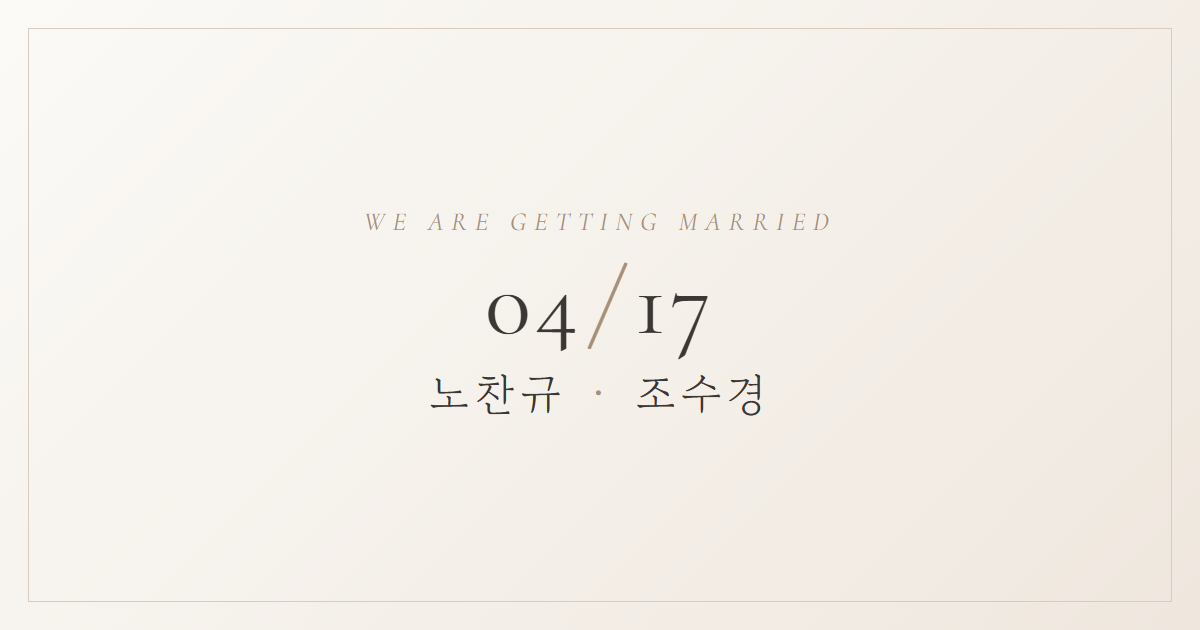
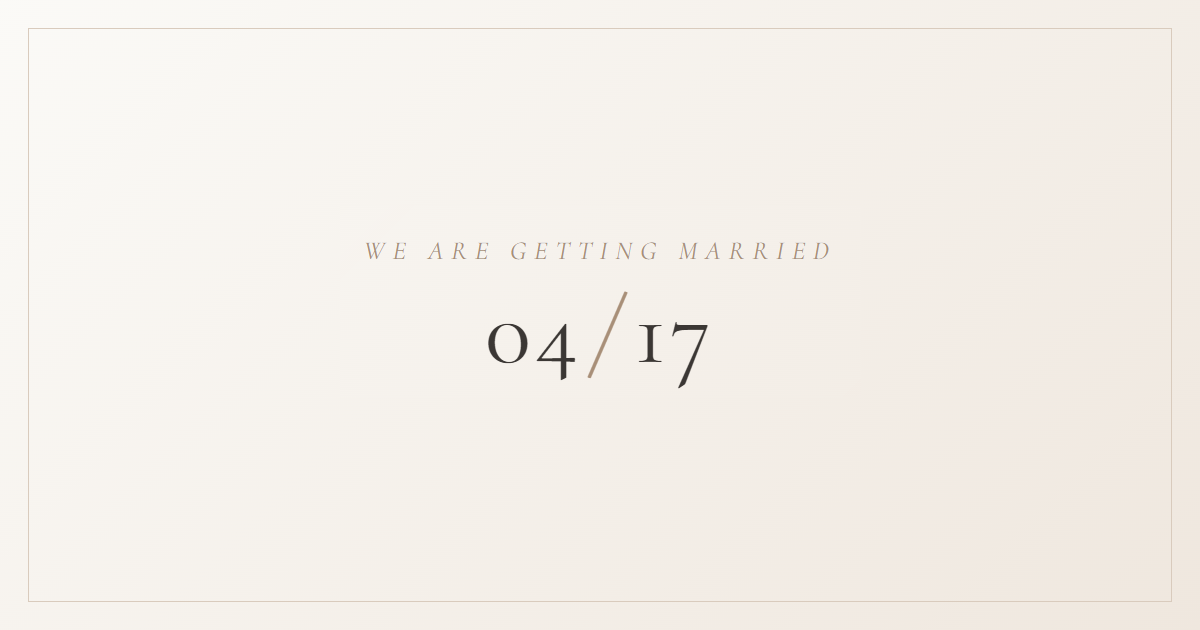
실명·계좌번호를 저장소에서 빼고 빌드할 때 넣도록 변경
wedding.js 에는 샘플 이름·계좌(김민준·이서연)만 두고, 실제 값은 git에 올리지 않는
wedding.private.json(내 PC)이나 Vercel 환경변수 WEDDING_PRIVATE 에서 읽어
빌드할 때 덮어쓴다. JSON 형식이 틀리면 샘플 이름이 배포되지 않도록 빌드를 멈춘다.

공유 썸네일(og.png)에서도 이름 줄을 지우고 남은 문구를 가운데로 옮겼다.
이름은 카드 제목(share.title)에 나온다. 카카오톡 캐시 때문에 ?v=3 으로 올림.

diff --git a/src/config/wedding.js b/src/config/wedding.js
@@ -1,6 +1,8 @@
 // 청첩장의 모든 문구·정보는 이 파일에서 수정합니다.
 // 이미지·음악 경로는 public/ 폴더 기준 상대 경로입니다.
 // 커버·갤러리 사진은 photos/ 폴더에 원본을 넣으면 자동으로 줄여서 들어갑니다 (README 참고).
+// 이름·계좌는 샘플입니다. 실제 값은 git에 올리지 않는 wedding.private.json(또는 Vercel 환경변수
+// WEDDING_PRIVATE)에 적으면 빌드할 때 이 파일 위에 덮어씁니다 (README "실명·계좌번호 따로 두기" 참고).
 import { photos } from './photos.generated.js'
 
 export const wedding = {
@@ -11,20 +13,20 @@ export const wedding = {
   hostOrder: 'groom-first',
   // 돌아가신 부모님은 fatherDeceased·motherDeceased 를 true 로 두면 이름 앞에 故 가 붙습니다.
   groom: {
-    name: '노찬규',
-    shortName: '찬규',
-    father: '노충섭',
+    name: '김민준',
+    shortName: '민준',
+    father: '김영수',
     fatherDeceased: false,
-    mother: '박은주',
+    mother: '정미경',
     motherDeceased: false,
     relation: '아들',
   },
   bride: {
-    name: '조수경',
-    shortName: '수경',
-    father: '아빠',
+    name: '이서연',
+    shortName: '서연',
+    father: '이정호',
     fatherDeceased: false,
-    mother: '엄마',
+    mother: '박지은',
     motherDeceased: false,
     relation: '딸',
   },
@@ -84,13 +86,13 @@ export const wedding = {
 
   accounts: {
     groom: [
-      { role: '신랑', name: '노찬규', bank: '부산은행', number: '175-12-000025-9' },
-      { role: '아버지', name: '노충섭', bank: '신한은행', number: '000-000-000000' },
-      { role: '어머니', name: '박은주', bank: '우리은행', number: '0000-000-000000' },
+      { role: '신랑', name: '김민준', bank: '국민은행', number: '000-00-000000-0' },
+      { role: '아버지', name: '김영수', bank: '신한은행', number: '000-000-000000' },
+      { role: '어머니', name: '정미경', bank: '우리은행', number: '0000-000-000000' },
     ],
     bride: [
       // kakaopay: 카카오페이 송금 링크가 있으면 버튼이 함께 표시됩니다.
-      { role: '신부', name: '조수경', bank: '하나은행', number: '000-000000-00000', kakaopay: '' },
+      { role: '신부', name: '이서연', bank: '하나은행', number: '000-000000-00000', kakaopay: '' },
       { role: '아버지', name: '이정호', bank: '농협', number: '000-0000-0000-00' },
       { role: '어머니', name: '박지은', bank: '기업은행', number: '000-000000-00-000' },
     ],
@@ -101,11 +103,11 @@ export const wedding = {
   bgm: '',
 
   share: {
-    title: '노찬규 ♥ 조수경 결혼합니다',
+    title: '김민준 ♥ 이서연 결혼합니다',
     description: '2027년 4월 17일 토요일 낮 12시 30분, 더세인트 6층 그랜드볼룸',
     // 공유 카드 이미지 (JPG/PNG, 5MB 이하, 가로 800px 이상 권장). SVG는 카카오톡에서 표시되지 않습니다.
     // 카카오톡은 같은 주소의 이미지를 한동안 저장해두므로, 이미지를 바꾸면 ?v= 뒤 숫자를 올려주세요.
-    image: 'images/og.png?v=2',
+    image: 'images/og.png?v=3',
     // 배포한 청첩장 주소. 링크를 카톡방에 직접 붙여넣었을 때의 미리보기(og 태그)에 쓰입니다.
     // Vercel의 고정 주소(Domains)를 적어주세요. 배포마다 바뀌는 '-xxxxxxxxx-팀이름.vercel.app' 주소는 로그인이 필요해 하객이 열 수 없습니다.
     siteUrl: 'https://wedding-invitation-three-nu-93.vercel.app',

diff --git a/vite.config.js b/vite.config.js
@@ -1,8 +1,36 @@
+import { existsSync, readFileSync } from 'node:fs'
 import { fileURLToPath } from 'node:url'
 import { defineConfig } from 'vite'
 import react from '@vitejs/plugin-react'
-import { wedding } from './src/config/wedding.js'
+import { wedding as publicWedding } from './src/config/wedding.js'
+import { withPrivate } from './src/config/private.js'
 import { themeOf, themeFontsUrl } from './src/themes/index.js'
+
+// 실명·계좌번호는 git에 올리지 않는다. Vercel에서는 WEDDING_PRIVATE 환경변수(JSON),
+// 내 PC에서는 프로젝트 폴더의 wedding.private.json 에서 읽어 wedding.js 위에 덮어쓴다.
+function loadPrivate() {
+  const file = fileURLToPath(new URL('./wedding.private.json', import.meta.url))
+  const [source, text] = process.env.WEDDING_PRIVATE
+    ? ['WEDDING_PRIVATE 환경변수', process.env.WEDDING_PRIVATE]
+    : existsSync(file)
+      ? ['wedding.private.json', readFileSync(file, 'utf8')]
+      : []
+  if (!source) {
+    console.log('[wedding] 비공개 정보 없음 — wedding.js 의 값을 그대로 씁니다.')
+    return null
+  }
+  try {
+    const data = JSON.parse(text)
+    console.log(`[wedding] ${source}의 비공개 정보를 적용합니다 (${Object.keys(data).join(', ')}).`)
+    return data
+  } catch (e) {
+    // 잘못된 값으로 샘플 이름이 배포되지 않도록 빌드를 멈춘다.
+    throw new Error(`[wedding] ${source}의 JSON 형식이 올바르지 않습니다: ${e.message}`)
+  }
+}
+
+const privateWedding = loadPrivate()
+const wedding = withPrivate(publicWedding, privateWedding)
 
 // index.html의 제목·OG 메타 태그와 디자인 템플릿(글꼴·색)을 src/config/wedding.js 값으로 채운다.
 function weddingMeta() {
@@ -34,6 +62,8 @@ export default defineConfig({
   // 상대 경로로 빌드해서 GitHub Pages 하위 경로에서도 그대로 동작하게 한다.
   base: './',
   plugins: [react(), weddingMeta()],
+  // src/main.jsx 가 wedding.js 위에 덮어쓸 비공개 정보
+  define: { __WEDDING_PRIVATE__: JSON.stringify(privateWedding) },
   build: {
     rolldownOptions: {
       // 하객용 청첩장(index.html)과 정보 입력 페이지(edit.html)를 따로 빌드한다.

diff --git a/src/editor/sections.jsx b/src/editor/sections.jsx
@@ -91,7 +91,7 @@ export function HostSection({ draft, set, done }) {
             label="신랑 부르는 이름"
             value={draft.groom.shortName}
             onChange={(v) => set('groom.shortName', v)}
-            placeholder={shortNameOf({ ...draft.groom, shortName: '' }) || '예: 찬규'}
+            placeholder={shortNameOf({ ...draft.groom, shortName: '' }) || '예: 민준'}
           />
         </Field>
         <Field label="신부 부르는 이름" className="ed-field--compact">
@@ -99,7 +99,7 @@ export function HostSection({ draft, set, done }) {
             label="신부 부르는 이름"
             value={draft.bride.shortName}
             onChange={(v) => set('bride.shortName', v)}
-            placeholder={shortNameOf({ ...draft.bride, shortName: '' }) || '예: 수경'}
+            placeholder={shortNameOf({ ...draft.bride, shortName: '' }) || '예: 서연'}
           />
         </Field>
       </Row>

diff --git a/src/main.jsx b/src/main.jsx
@@ -1,10 +1,14 @@
 import { Component, StrictMode, useEffect, useState } from 'react'
 import { createRoot } from 'react-dom/client'
 import App from './App.jsx'
-import { wedding } from './config/wedding.js'
+import { wedding as publicWedding } from './config/wedding.js'
+import { withPrivate } from './config/private.js'
 import { WeddingProvider } from './lib/wedding-context.jsx'
 import './styles/global.css'
 import './styles/themes.css'
+
+// 실명·계좌번호(wedding.private.json 또는 WEDDING_PRIVATE)는 빌드할 때 vite.config.js 가 넣어준다.
+const wedding = withPrivate(publicWedding, __WEDDING_PRIVATE__)
 
 // 편집 페이지(/edit)의 미리보기 iframe은 ?preview 로 열리고, 부모 창이 보내주는 입력 내용으로 그린다.
 const isPreview = new URLSearchParams(window.location.search).has('preview')

diff --git a/src/config/private.js b/src/config/private.js
@@ -1,0 +1,14 @@
+// 실명·계좌번호처럼 git에 올리지 않는 정보를 wedding.js 위에 덮어쓴다.
+// 값은 vite.config.js 가 빌드할 때 WEDDING_PRIVATE 환경변수나 wedding.private.json 에서 읽어 넣는다.
+// 객체는 안쪽까지 합치고, 배열(계좌 목록 등)과 그 밖의 값은 통째로 바꾼다.
+
+const isPlainObject = (v) => v !== null && typeof v === 'object' && !Array.isArray(v)
+
+export function withPrivate(base, overrides) {
+  if (!isPlainObject(overrides)) return base
+  const merged = { ...base }
+  for (const [key, value] of Object.entries(overrides)) {
+    merged[key] = isPlainObject(value) && isPlainObject(base[key]) ? withPrivate(base[key], value) : value
+  }
+  return merged
+}

diff --git a/src/editor/draft.js b/src/editor/draft.js
@@ -127,7 +127,7 @@ export function clearDraft() {
 
 // ---------- 값 다듬기 ----------
 
-// 부르는 이름을 비워두면 성을 뺀 이름을 쓴다 (노찬규 → 찬규).
+// 부르는 이름을 비워두면 성을 뺀 이름을 쓴다 (김민준 → 민준).
 export function shortNameOf(p) {
   if (p.shortName.trim()) return p.shortName.trim()
   const name = p.name.trim()

diff --git a/README.md b/README.md
@@ -96,6 +96,27 @@ npm run preview  # 빌드 결과 미리보기
 
 색상·폰트는 [src/styles/global.css](src/styles/global.css) 상단의 CSS 변수에서 바꿀 수 있습니다.
 
+### 실명·계좌번호 따로 두기
+
+GitHub에 실명과 계좌번호가 남지 않도록 `wedding.js`에는 샘플 이름·계좌(김민준·이서연)만 두고, 실제 값은 git에 올리지 않는 곳에 적습니다. 빌드할 때 그 값이 `wedding.js` 위에 덮어써집니다. 객체는 안쪽까지 합쳐지고, 계좌 목록 같은 배열은 통째로 바뀝니다.
+
+- **내 PC**: 프로젝트 폴더의 `wedding.private.json` (`.gitignore`에 들어 있음)
+- **Vercel**: 환경 변수 `WEDDING_PRIVATE`에 같은 JSON을 그대로 넣습니다. 값을 바꾸면 다시 배포해야 반영됩니다. 설정돼 있으면 `wedding.private.json`보다 먼저 쓰입니다.
+
+```json
+{
+  "groom": { "name": "홍길동", "shortName": "길동", "father": "홍아버지", "mother": "김어머니" },
+  "bride": { "name": "성춘향", "shortName": "춘향", "father": "성아버지", "mother": "월매" },
+  "accounts": {
+    "groom": [{ "role": "신랑", "name": "홍길동", "bank": "국민은행", "number": "123-45-678901" }],
+    "bride": [{ "role": "신부", "name": "성춘향", "bank": "하나은행", "number": "123-456789-01234", "kakaopay": "" }]
+  },
+  "share": { "title": "홍길동 ♥ 성춘향 결혼합니다" }
+}
+```
+
+빌드 로그의 `[wedding]` 줄에서 적용 여부를 확인할 수 있습니다. JSON 형식이 틀리면 샘플 이름으로 배포되지 않도록 빌드가 멈춥니다. 정보 입력 페이지(`/edit`)는 샘플 값으로 시작하고, 거기서 실명을 넣어 내려받은 `wedding.js`를 그대로 커밋하면 실명이 다시 올라가니 실명·계좌 부분은 `wedding.private.json`으로 옮겨주세요. 공유 카드 이미지(`og.png`)에도 이름을 넣지 않았습니다. 이름은 카드 제목(`share.title`)에 나옵니다.
+
 ## 구글 시트 설정 (RSVP·방명록)
 
 참석 의사와 방명록은 내 구글 드라이브의 스프레드시트에 쌓입니다. 처음 한 번만 설정하면 됩니다.
@@ -138,7 +159,7 @@ VITE_SHEETS_API_URL=https://script.google.com/macros/s/xxxxxxxx/exec
 
 `npm run build` 결과인 `dist/` 폴더를 정적 호스팅에 올리면 됩니다. 상대 경로로 빌드되므로 하위 경로에서도 동작합니다.
 
-- **Vercel / Netlify**: 저장소를 연결하고 Build command `npm run build`, Output `dist`. 환경 변수 2개(`VITE_SHEETS_API_URL`, `VITE_KAKAO_JS_KEY`)를 대시보드에 등록합니다.
+- **Vercel / Netlify**: 저장소를 연결하고 Build command `npm run build`, Output `dist`. 환경 변수 3개(`VITE_SHEETS_API_URL`, `VITE_KAKAO_JS_KEY`, `WEDDING_PRIVATE`)를 대시보드에 등록합니다. `WEDDING_PRIVATE`는 위의 "실명·계좌번호 따로 두기"를 참고하세요.
 - **GitHub Pages**: Actions로 `dist/`를 배포합니다. 환경 변수는 저장소 Secrets로 넘겨주세요.
 
 배포 후에는 카카오 디벨로퍼스에 실제 도메인을 꼭 추가하고, `share.siteUrl`도 실제 주소로 바꿔주세요.
